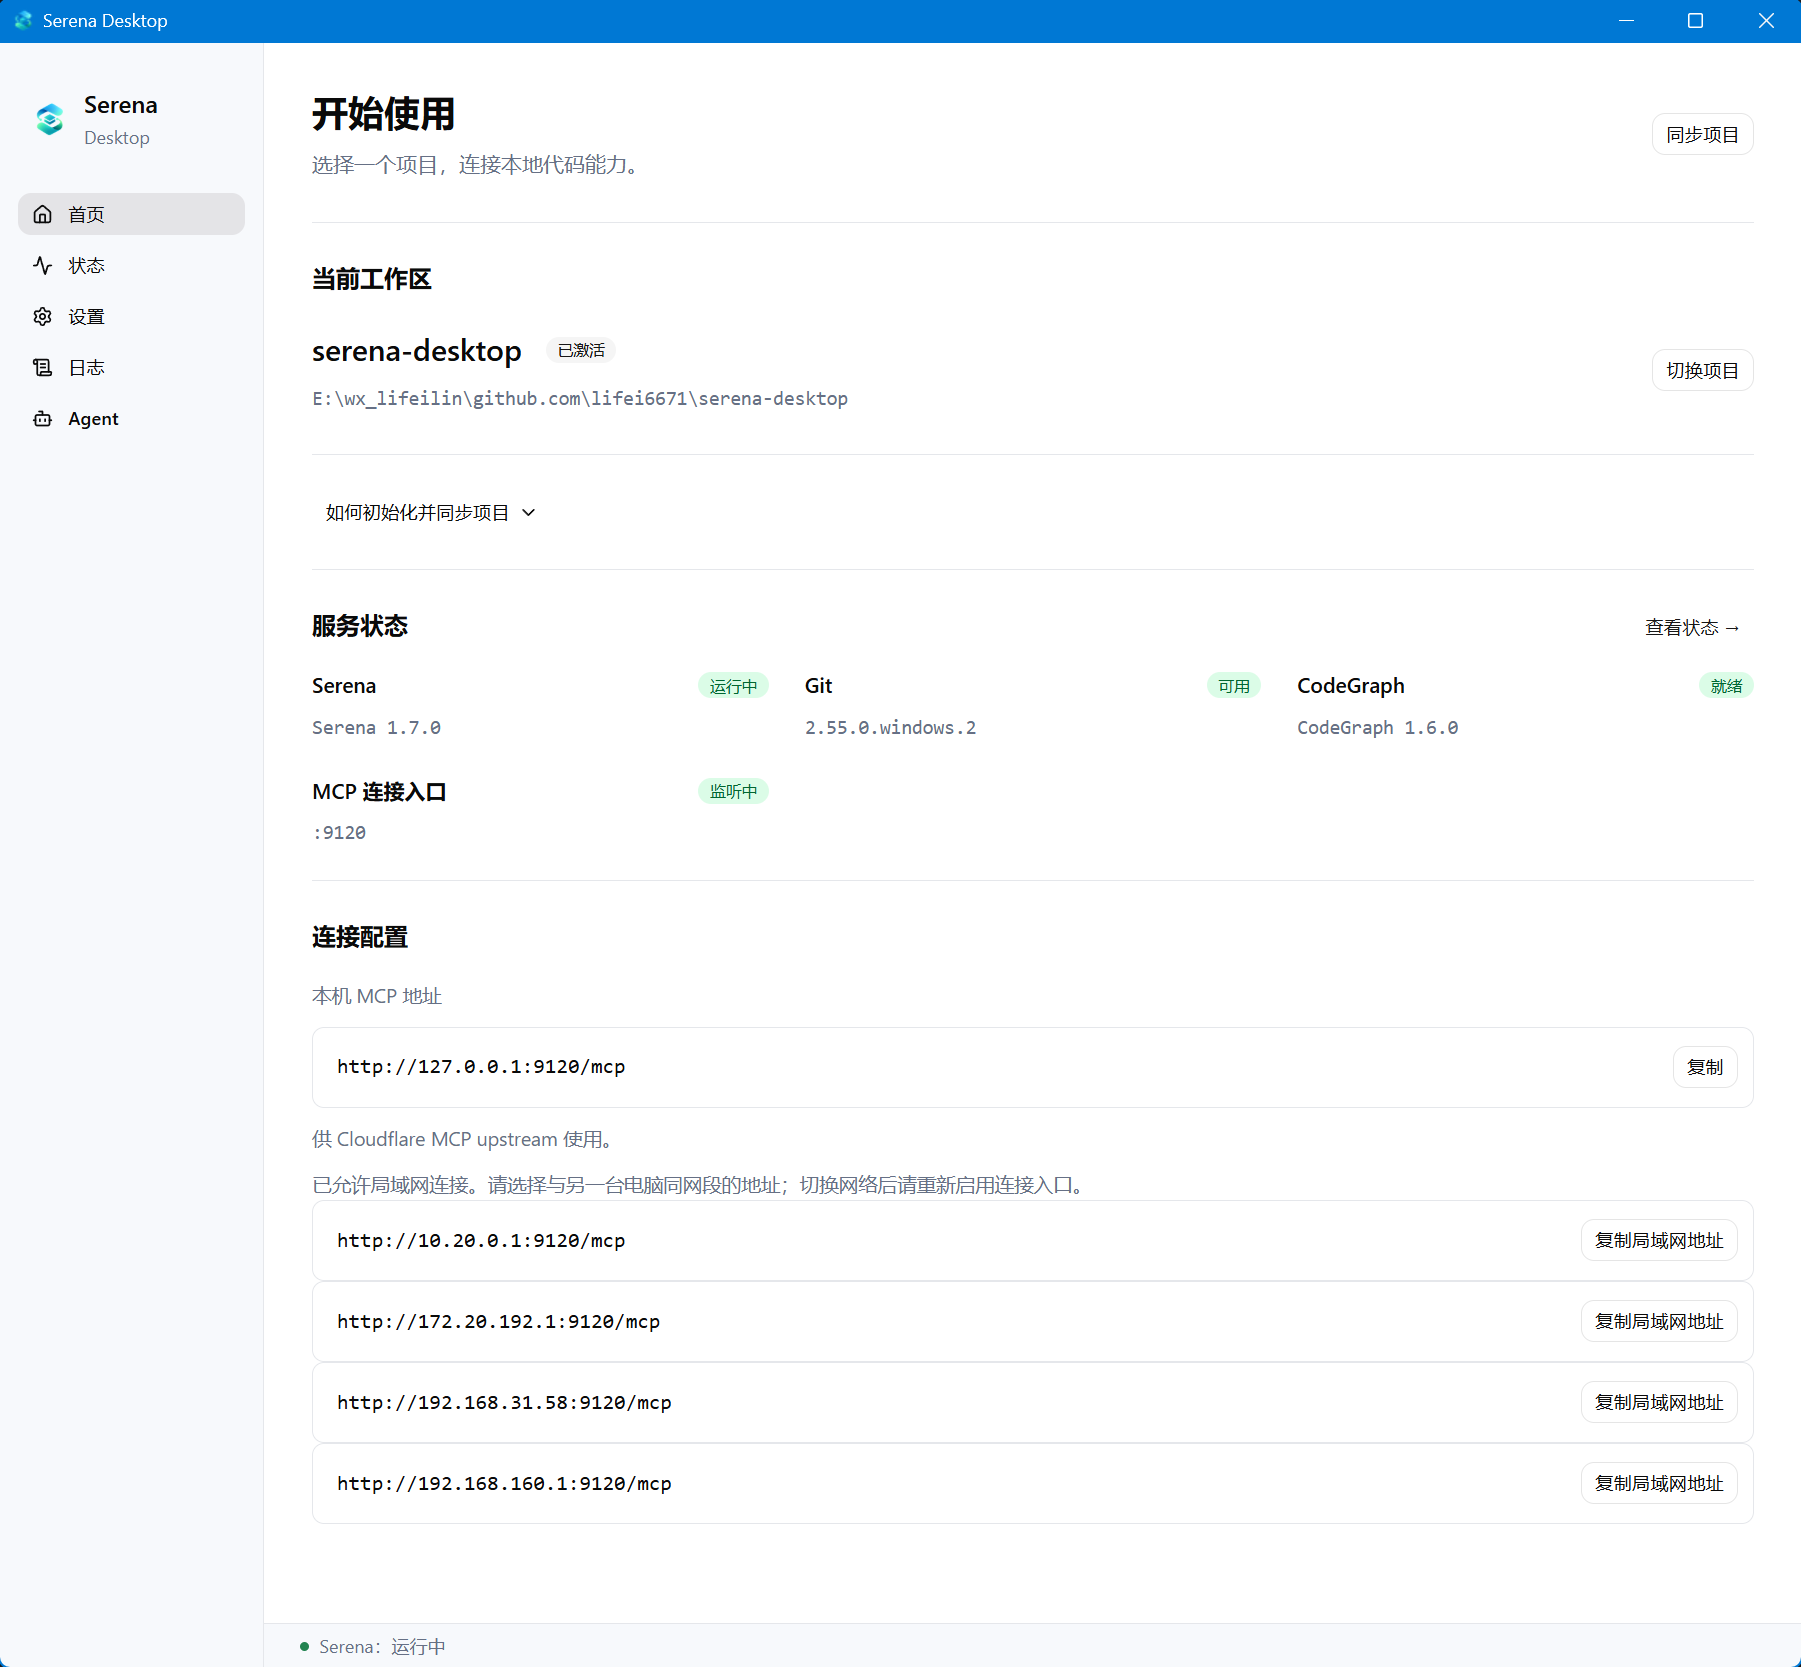
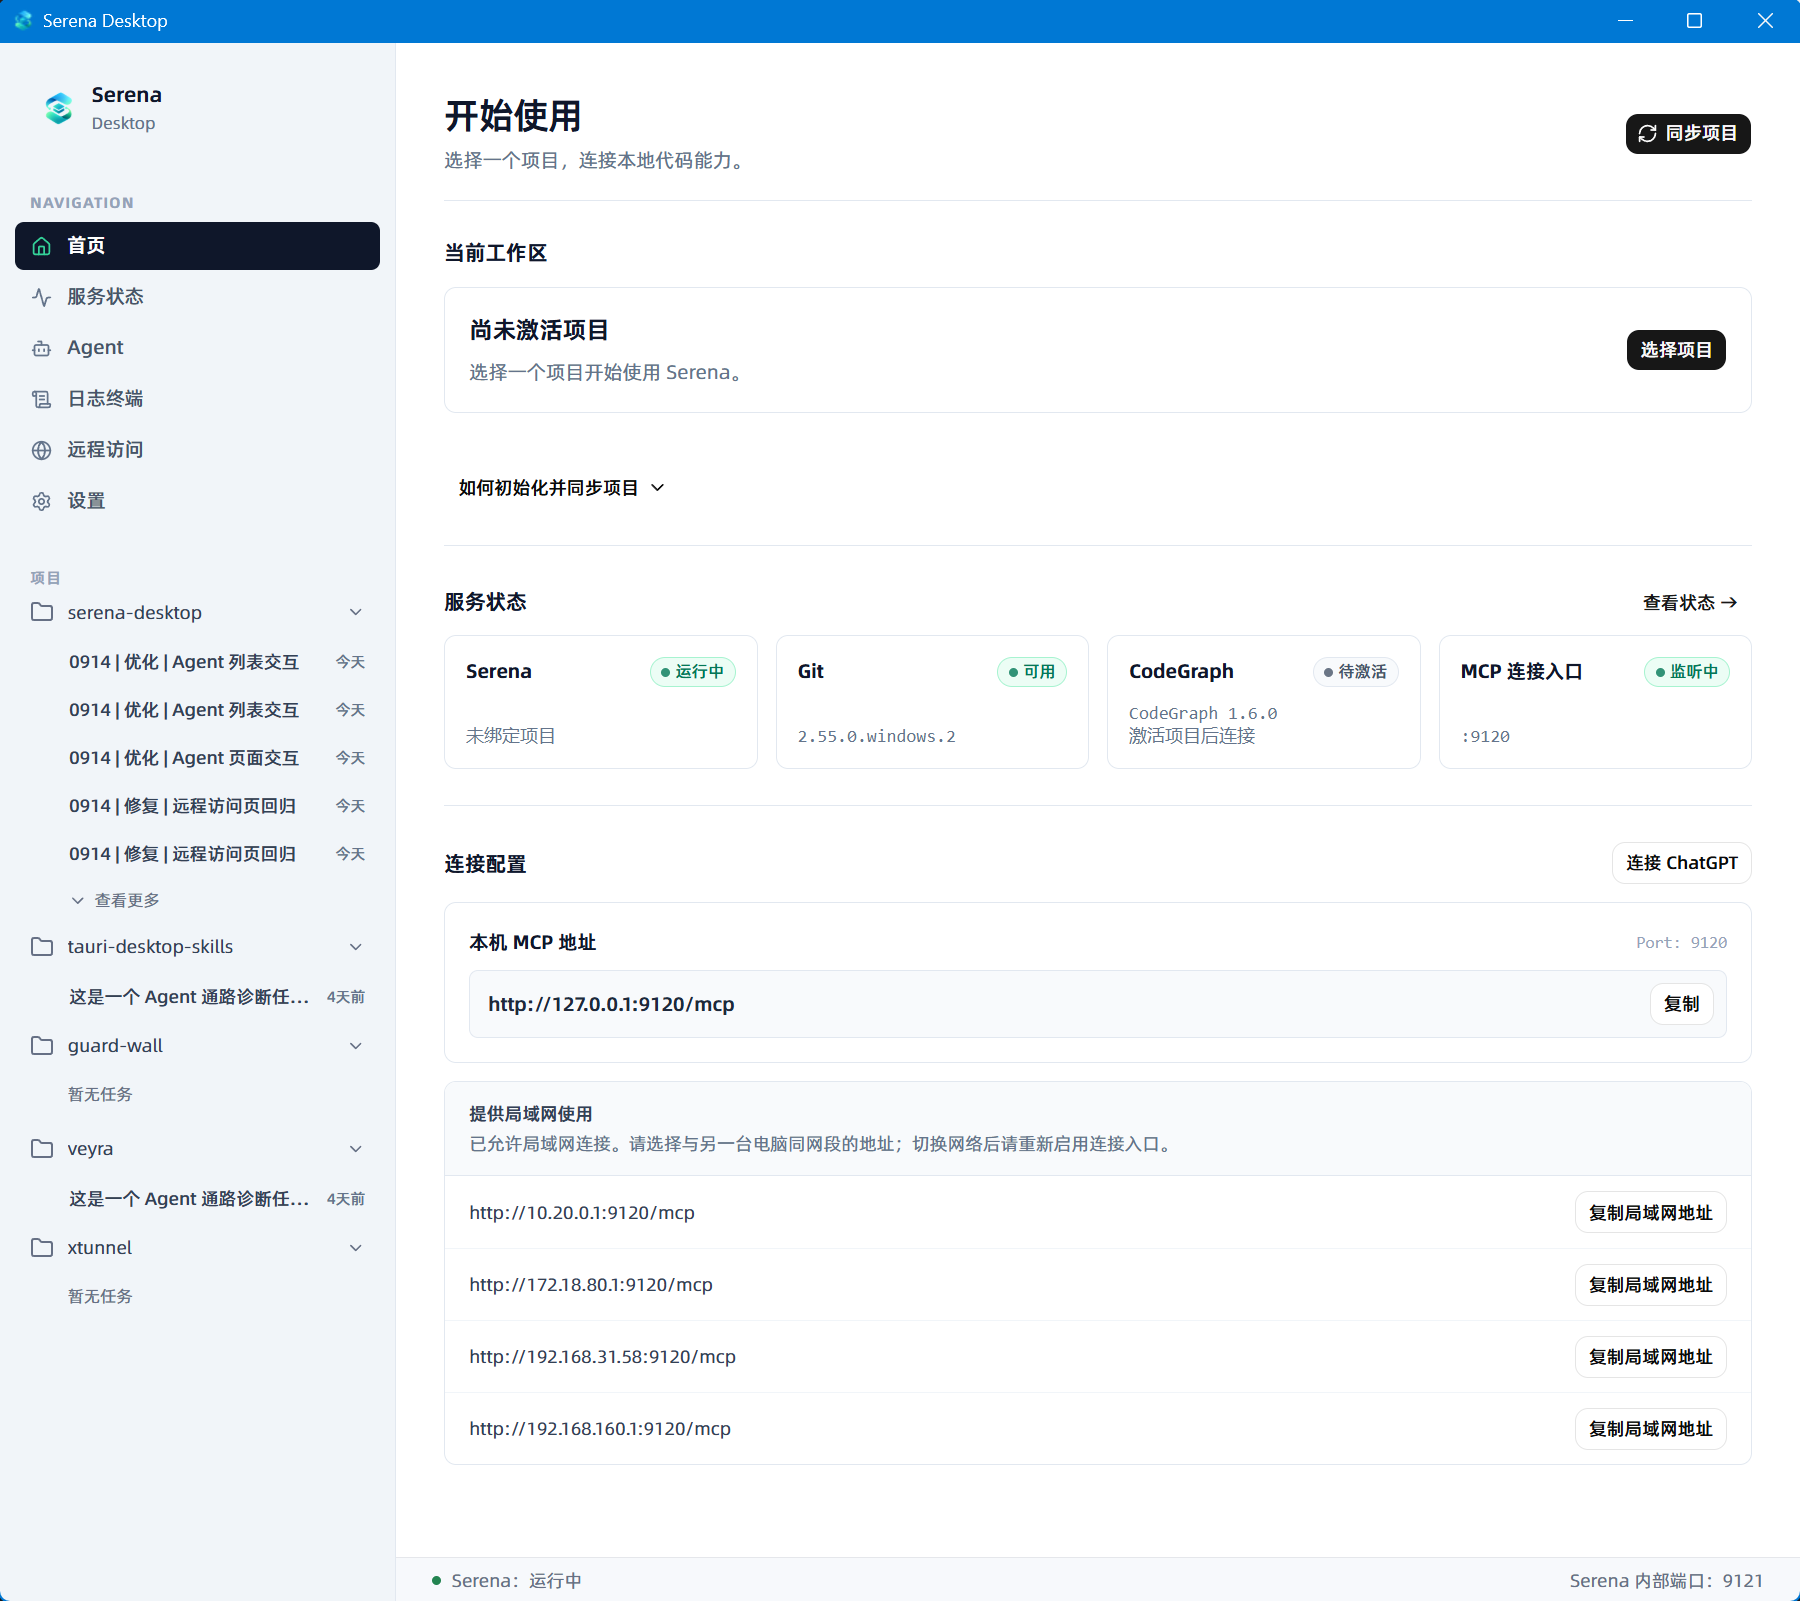
feat(ui):增加新版设计稿

diff --git a/README.md b/README.md
@@ -117,10 +117,12 @@ serena project index
 | 连接方式 | 适用场景 |
 |---|---|
 | 快捷隧道 | 使用临时公网地址连接，适合开始体验；重新开启后地址可能变化 |
-| 自建接入 | 使用自有 HTTPS 入口，或配置 ngrok 接入 |
+| 自建接入 | 使用自有 HTTPS 入口，适合有内网穿透能力的用户，或配置 ngrok 接入 |
 | 仅 MCP | 已有负责认证和转发的 MCP 网关，或供本机客户端使用 |
 
 使用快捷隧道或自建接入时，Serena Desktop 提供内置 OAuth，并在本机弹窗中由你确认客户端授权。使用“仅 MCP”时，认证由你的外部网关配置决定。
+
+![远程访问：快捷隧道、自建接入与仅 MCP 网关配置](docs/static/home-5.png)
 
 按页面提示开启连接并完成连接测试，复制完整的公网 MCP 地址，例如 `https://mcp.example.com/mcp`。下面采用 ChatGPT 的“服务器 URL”方式，因此需要 ChatGPT 可访问的 HTTPS 地址，不能直接填写 `127.0.0.1` 或局域网 IP。
 
@@ -179,7 +181,6 @@ serena project index
 
 想了解实现或参与贡献，可以从以下文档开始：
 
-- [V0.3 技术方案](docs/technical-design-v0.3.md)
 - [远程访问与授权](docs/remote-access-ui.md)
 - [ChatGPT 与本地 Agent 的任务编排](docs/core-work-orchestration.md)
 - [Codex Agent Runtime](docs/codex-agent-runtime.md)
